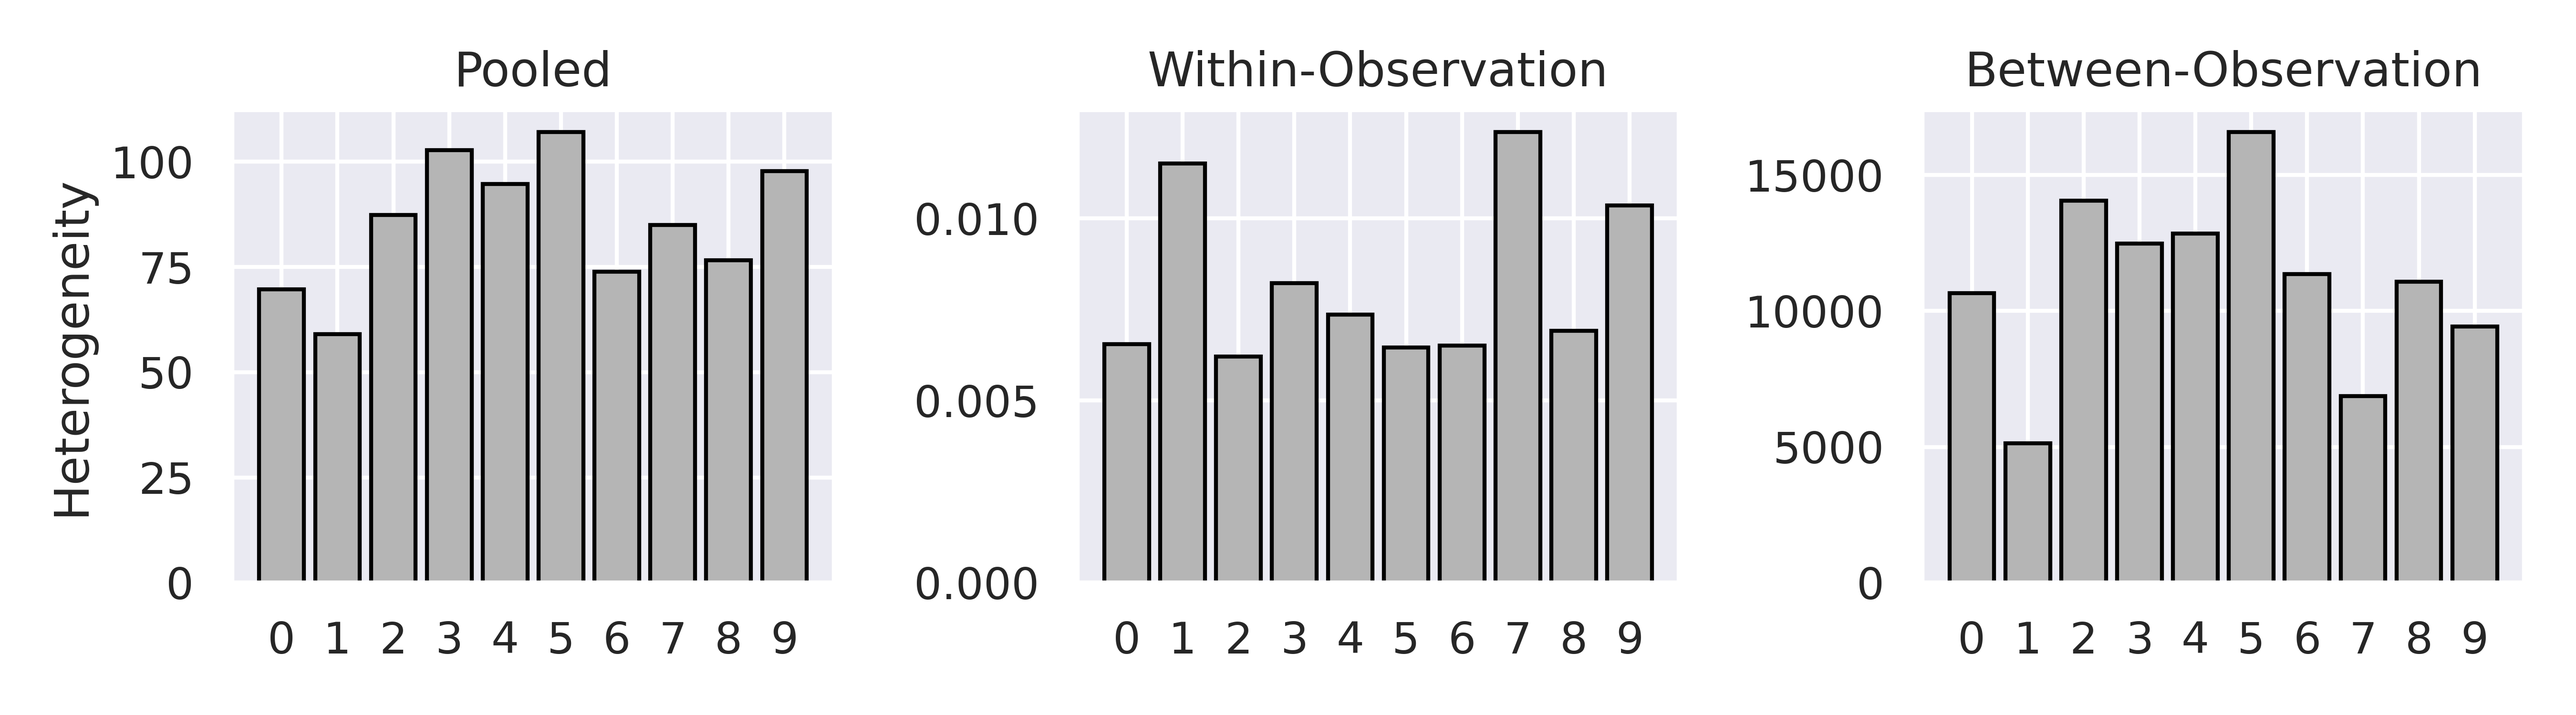
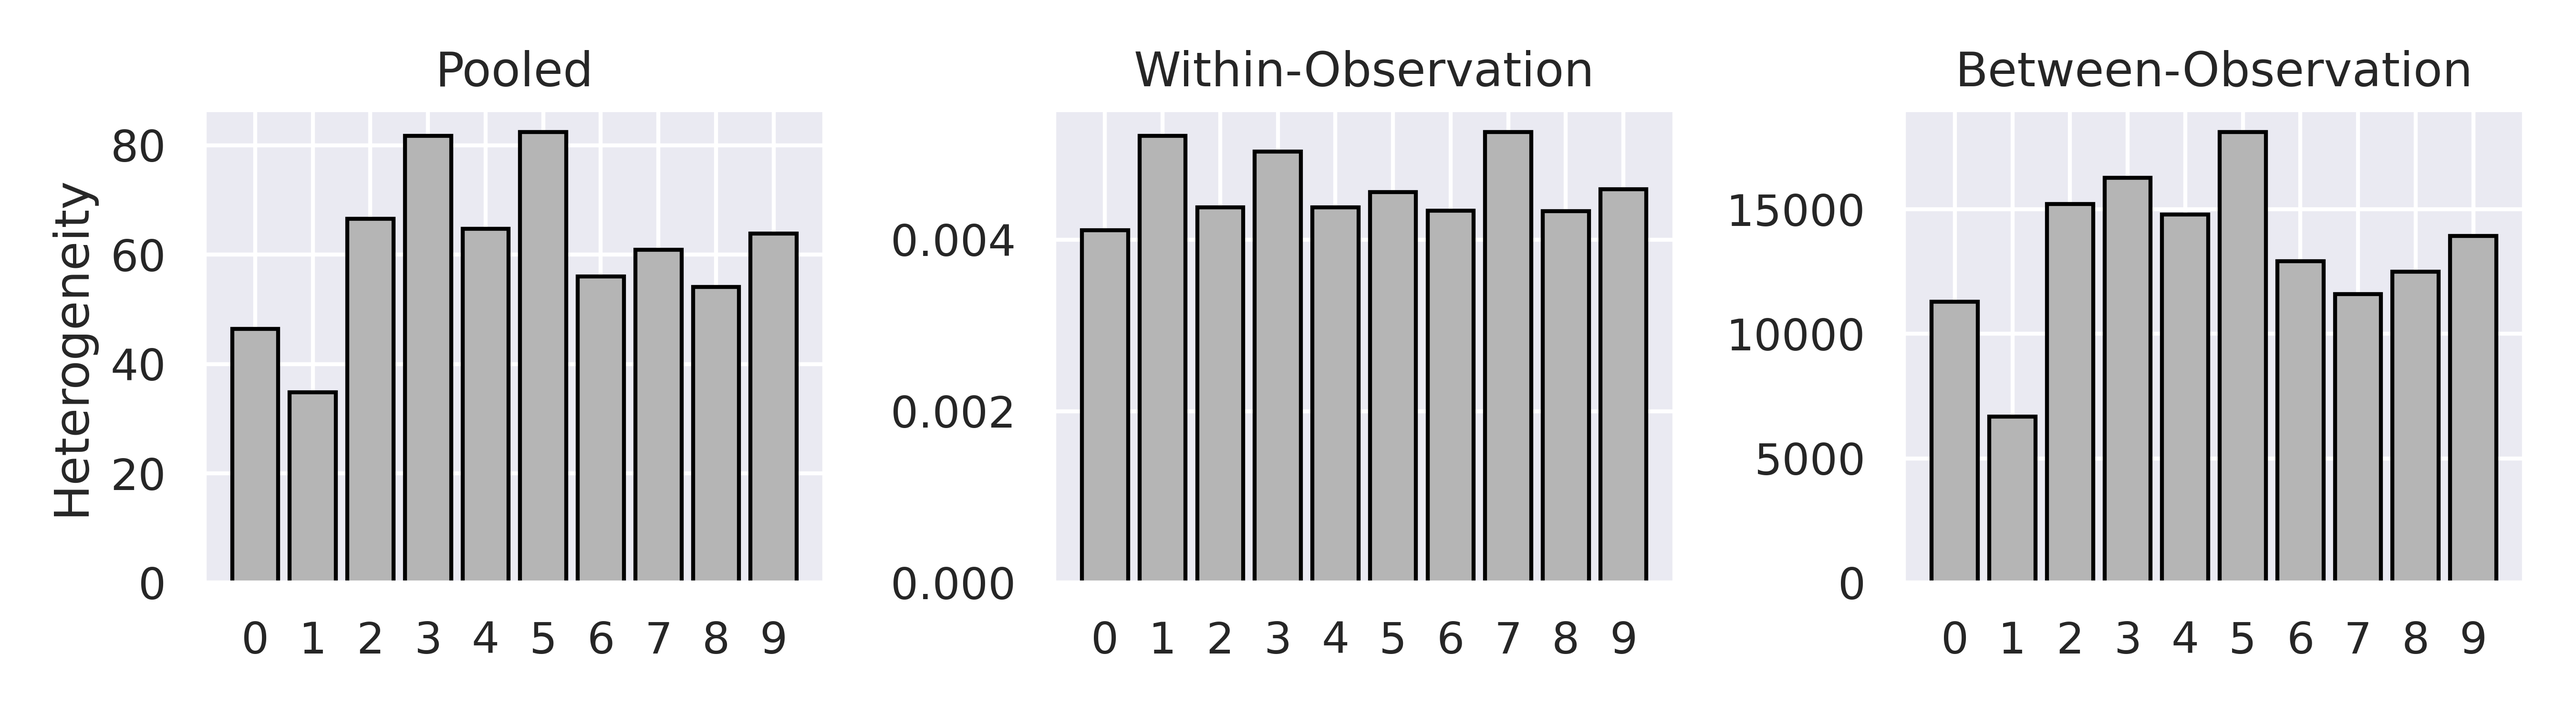
new debugging results

diff --git a/cnn-vae/results/debugging/feature_vae.py b/cnn-vae/results/debugging/feature_vae.py
@@ -6,11 +6,11 @@ import torch
 import torch.nn as nn
 import torch.nn.functional as F
 
-LAT_DIM = 2
+LAT_DIM = 3
 OBS_DIM = 128
-CAPACITY1 = 128 * 2 ** 4
-CAPACITY2 = 64 * 2 ** 4
-LRN_RATE = 1e-4
+CAPACITY1 = 128 * 2 ** 5
+CAPACITY2 = 64 * 2 ** 5
+LRN_RATE = 1e-3
 WEIGHT_DECAY = 1e-5
 VAR_BETA = 1
 VAE_EPOCH = 10
@@ -258,7 +258,7 @@ def vae_loss(recon_loss, mu, logvar):
 
 def new_vae(
     device,
-    lat_dim = 2 * 2,
+    lat_dim = 4,
     obs_dim = 128,
     capacity1 = 128 * 2 ** 5,
     capacity2 = 64 * 2 ** 5,
@@ -292,7 +292,10 @@ def new_vae(
     )
     return vae, optimizer
 
-def load_vae(folder_name, vae_name, device, optimizer_name = "adam.pth"):
+def load_vae(
+    folder_name, device,
+    vae_name = "vae.pth", optimizer_name = "adam.pth",
+):
     """
     Example:
 

diff --git a/cnn-vae/results/debugging/main.py b/cnn-vae/results/debugging/main.py
@@ -62,7 +62,8 @@ def one_vae_experiment(
 ):
 
     mkdir(exp_folder)
-    vae, optimizer = new_vae(device, lat_dim = lat_dim)
+    #vae, optimizer = new_vae(device, lat_dim = lat_dim)
+    vae, optimizer = load_vae(exp_folder, device)
 
     (
         vae, optimizer, train_losses, test_train_losses, test_eval_losses,
